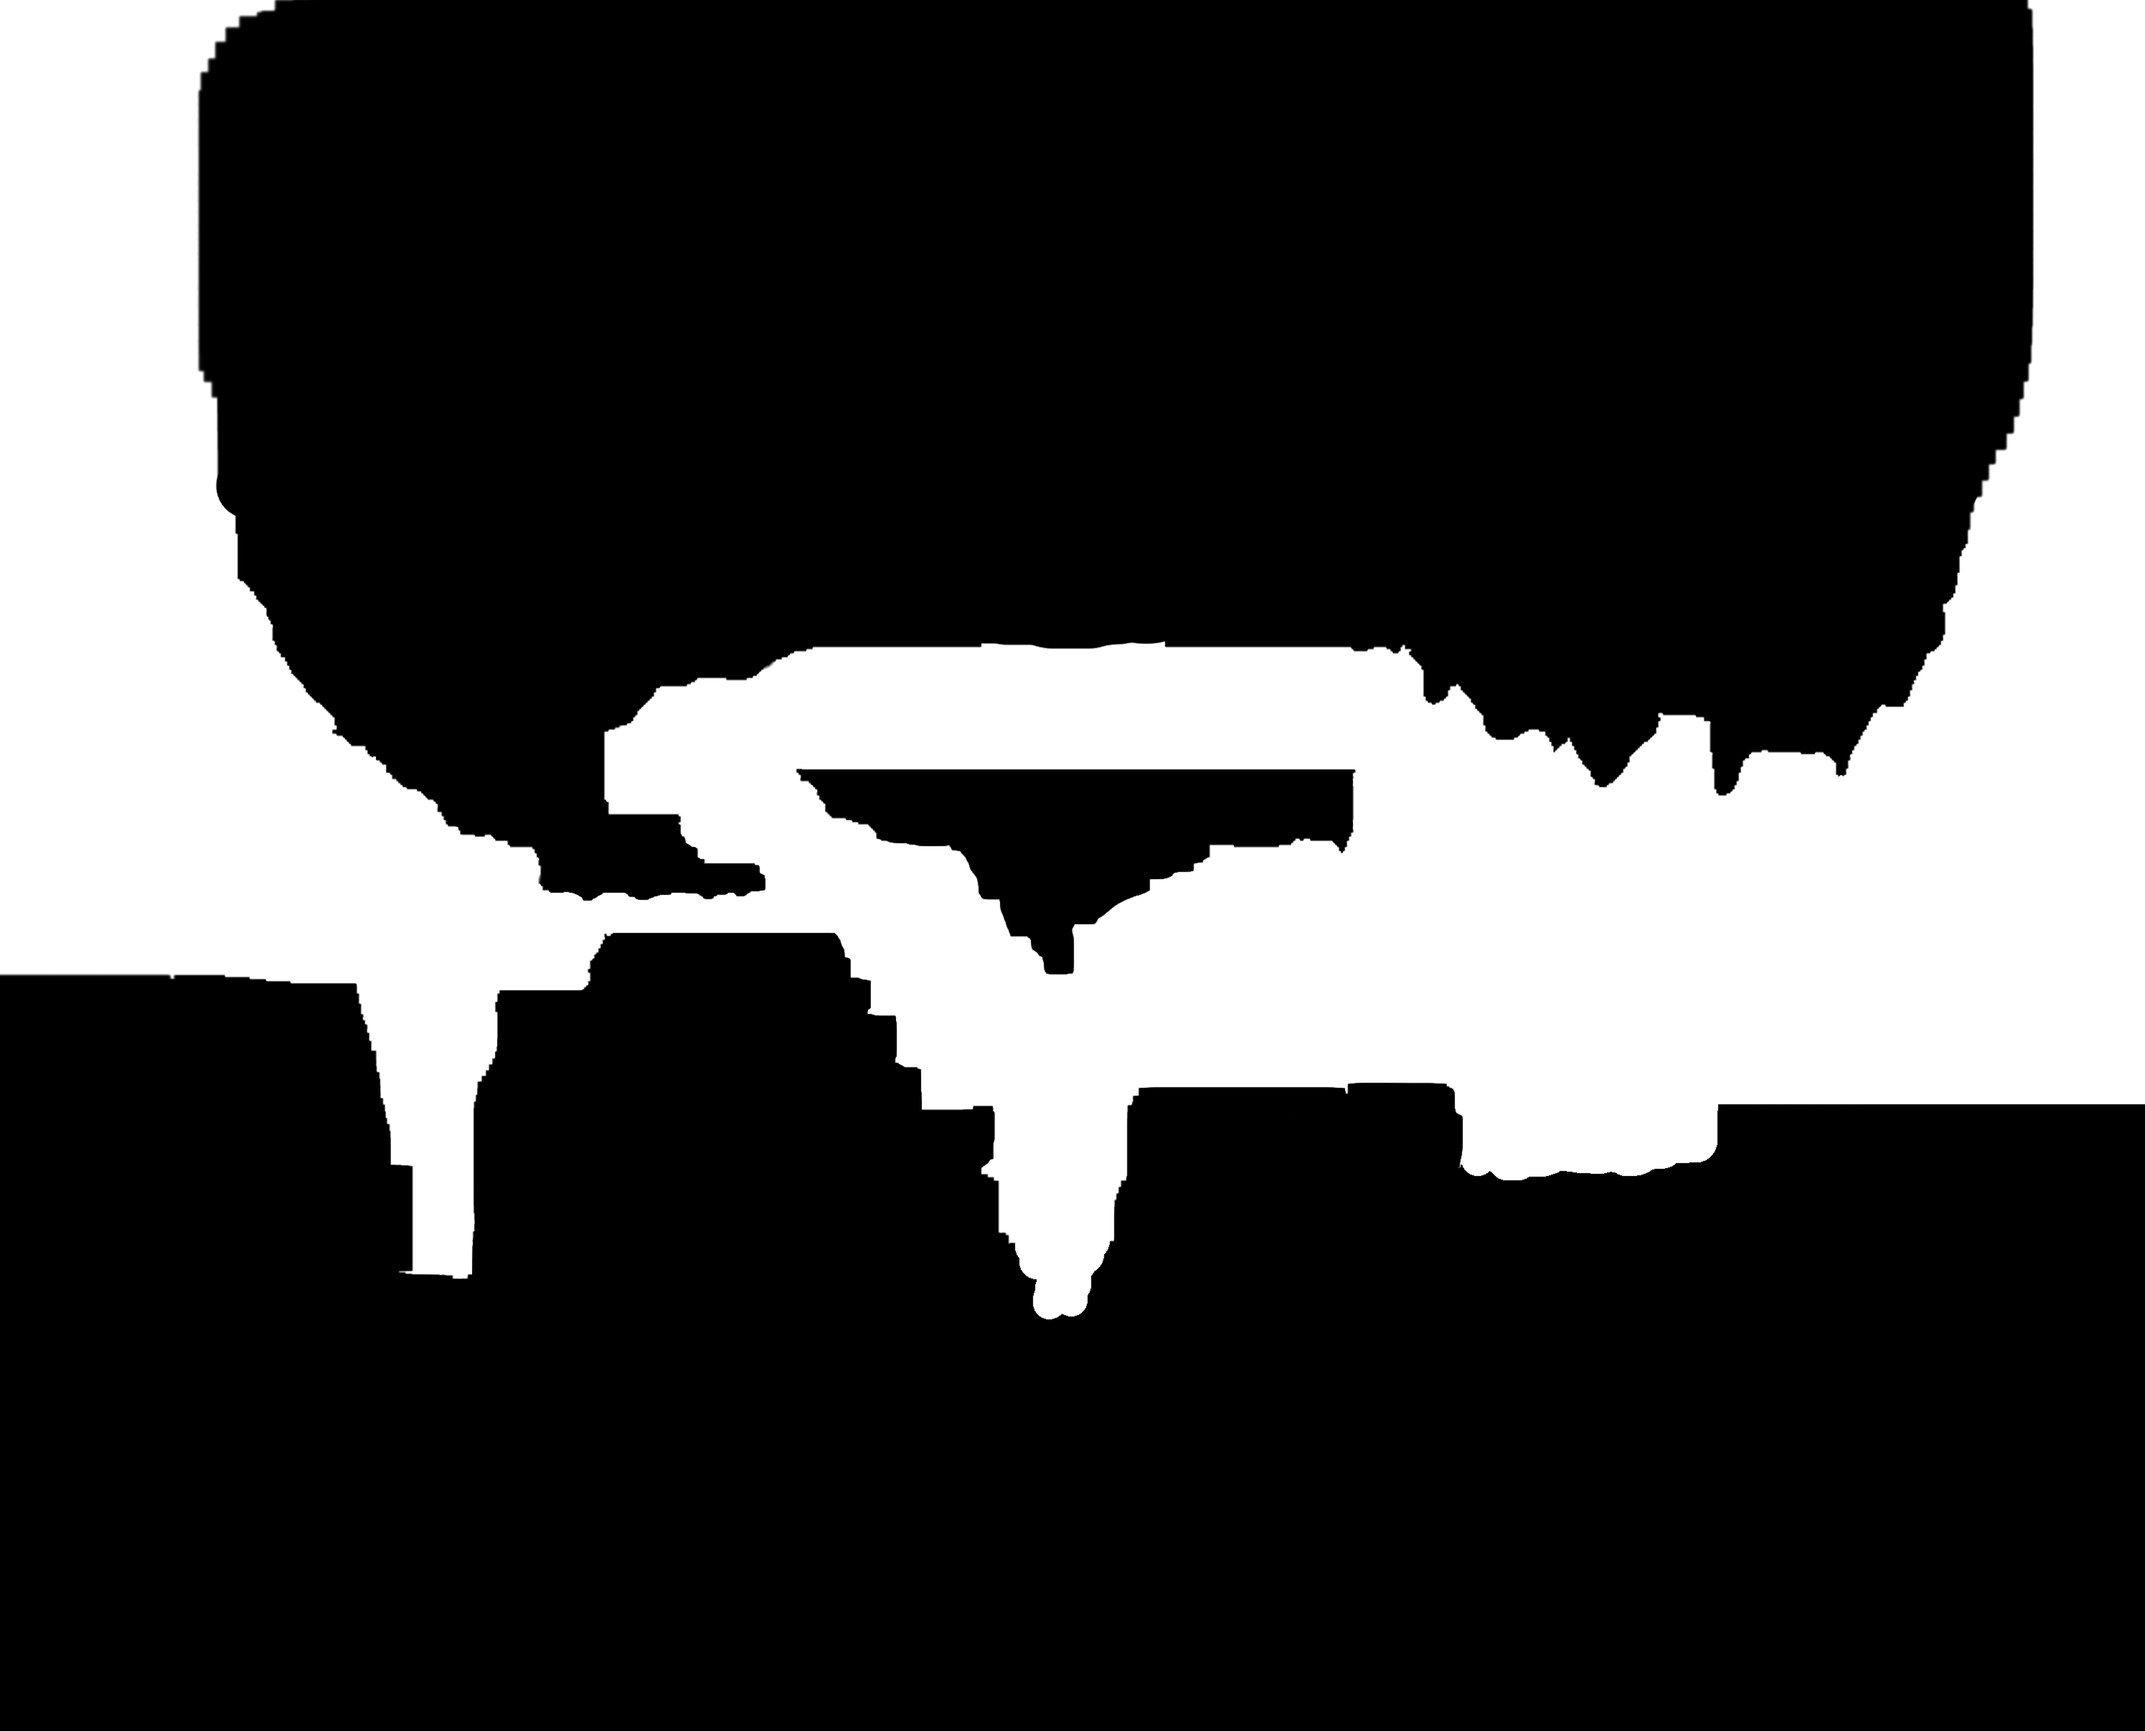
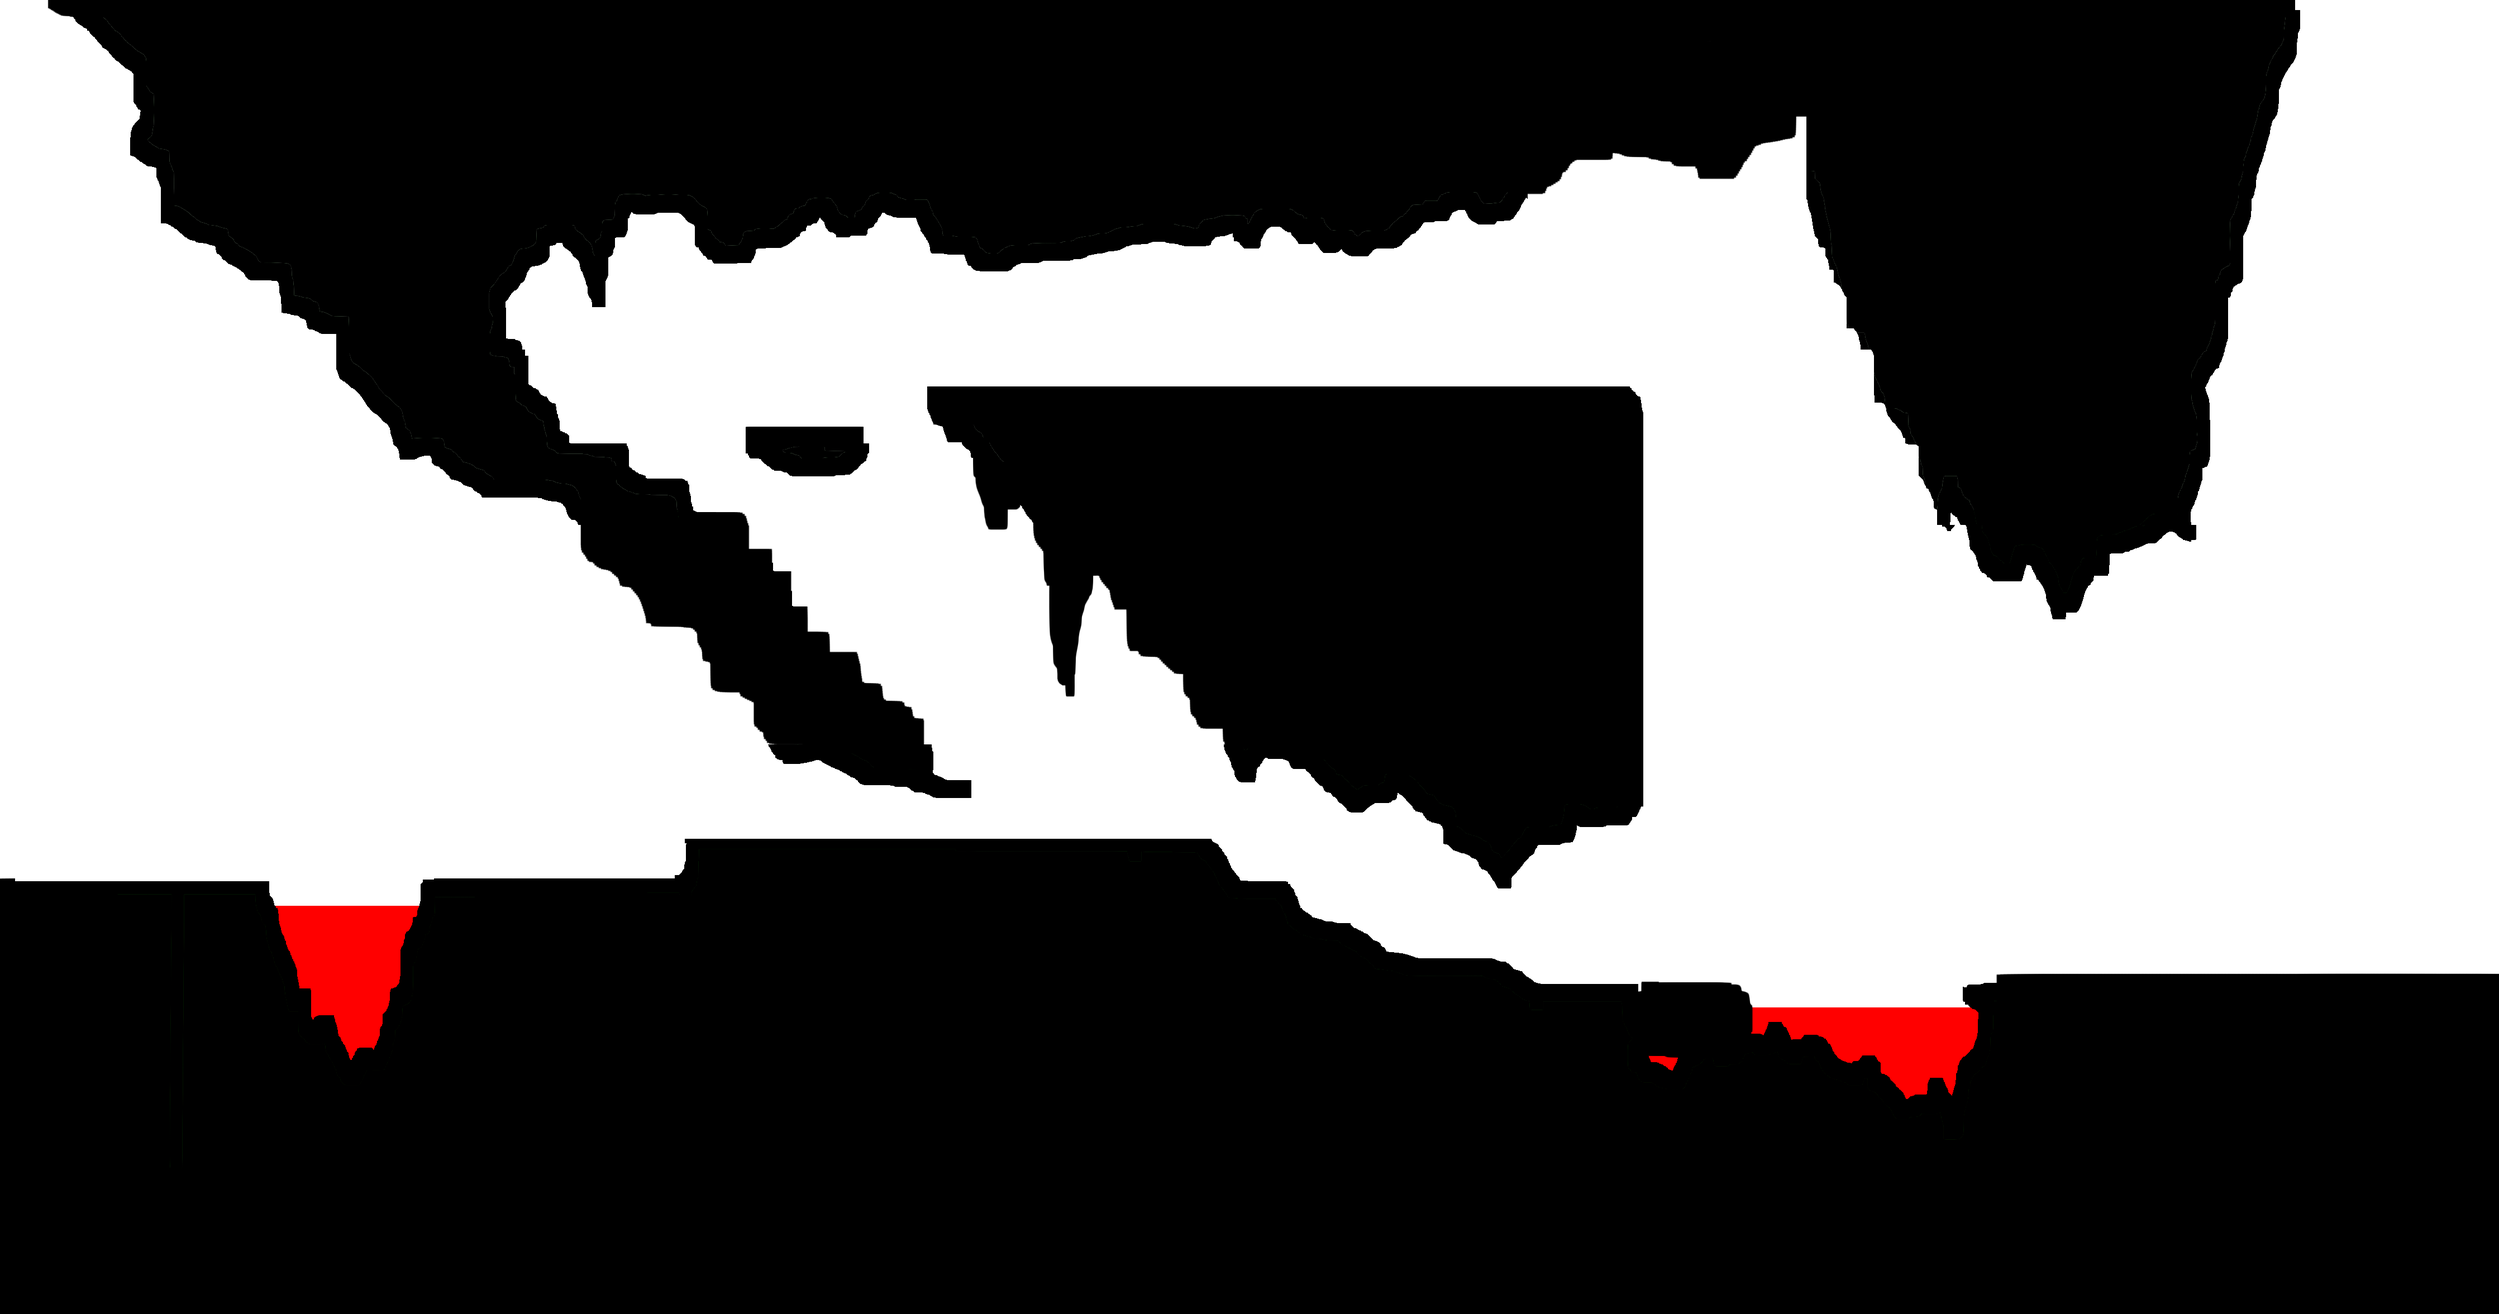
Chamgement collision Ajout collision plafond

Changed region(s): [[0.0, 0.0, 1.0, 0.8377], [0.875, 0.0, 0.9688, 0.4033]]

diff --git a/environment.cpp b/environment.cpp
@@ -10,7 +10,7 @@ Environment::Environment(){
 
 void Environment::init(){
     std::cout << "Environment Initialisation" << std::endl;
-    Hero* robot = new Hero("Robot",5,600,1450,10,10,1,0);
+    Hero* robot = new Hero("Robot",5,200,1450,10,10,1,0);
     entityMap.insert(robot->getID(),robot);
     entityTypeMap.insert(robot->get_nom(),robot->getID());
 
@@ -27,29 +27,45 @@ void Environment::reloadLevel(){
 
 }
 
+//bool Environment::collisionManager( QPair<double,double> speedVector){
+
+//}
+
 void Environment::run(){
 
 
-
     for(QMap<int,Entite*>::iterator it = entityMap.begin(); it != entityMap.end(); it++){
-        if(it.value()->get_trigger().intersection(IM.GetImage("graphics/hitmap2.png"),sf::Color::Black)){
-            if(it.value()->get_trigger().intersectAngle(IM.GetImage("graphics/hitmap2.png"), sf::Color::Black) <= PI + PI / 4.
-                    && it.value()->get_trigger().intersectAngle(IM.GetImage("graphics/hitmap2.png"), sf::Color::Black) >= PI - PI / 4.){
-                it.value()->moveRight();
-                it.value()->setCollLeft(true);
+        TzEllipse tmpTrigger = it.value()->get_trigger();
+        tmpTrigger.set_centre(it.value()->get_trigger().get_centreX() + it.value()->getSpeedVector().first
+                              , it.value()->get_trigger().get_centreY() + it.value()->getSpeedVector().second );
+        if(tmpTrigger.intersection(IM.GetImage("graphics/hitmap2.png"),sf::Color::Black)){
+            //collision avec un mur a gauche
+            if(tmpTrigger.intersectAngle(IM.GetImage("graphics/hitmap2.png"), sf::Color::Black) <= PI + PI / 4.
+                    && tmpTrigger.intersectAngle(IM.GetImage("graphics/hitmap2.png"), sf::Color::Black) >= PI - PI / 4.){
+                it.value()->setSpeedX(0);
+//                it.value()->moveRight();
             }
-            else
-                it.value()->setCollLeft(false);
-            if(it.value()->get_trigger().intersectAngle(IM.GetImage("graphics/hitmap2.png"), sf::Color::Black) <=  PI / 4.
-                    && it.value()->get_trigger().intersectAngle(IM.GetImage("graphics/hitmap2.png"), sf::Color::Black) >= - PI / 4.){
-                it.value()->moveLeft();
-                it.value()->setCollRight(true);
+
+
+            //collision avec un mur a droite
+            if(tmpTrigger.intersectAngle(IM.GetImage("graphics/hitmap2.png"), sf::Color::Black) <=  PI / 4.
+                    && tmpTrigger.intersectAngle(IM.GetImage("graphics/hitmap2.png"), sf::Color::Black) >= - PI / 4.){
+//                it.value()->moveLeft();
+                it.value()->setSpeedX(0);
             }
-            else
-                it.value()->setCollRight(false);
+
+
+//            collision avec le plafond
+            if(tmpTrigger.intersectAngle(IM.GetImage("graphics/hitmap2.png"), sf::Color::Black) <=  -PI/2 + PI / 4.
+                    && tmpTrigger.intersectAngle(IM.GetImage("graphics/hitmap2.png"), sf::Color::Black) >= -PI/2 - PI / 4.){
+                it.value()->setSpeedY(0);
+            }
+
         }
-        applyGravity(it);
+        applyGravity(it,tmpTrigger);
     }
+
+
 
     getHero()->move();
 
@@ -58,11 +74,11 @@ void Environment::run(){
     emit sendHeroPos(getHero()->get_x(),getHero()->get_y());
 }
 
-void Environment::applyGravity(QMap<int,Entite*>::iterator it){
+void Environment::applyGravity(QMap<int,Entite*>::iterator it,TzEllipse tmpTrigger){
     it.value()->setOnTheFloor(false);
-    if(it.value()->get_trigger().intersection(IM.GetImage("graphics/hitmap2.png"),sf::Color::Black)){
-        if(it.value()->get_trigger().intersectAngle(IM.GetImage("graphics/hitmap2.png"), sf::Color::Black) <= PI / 2. + PI / 4.
-                && it.value()->get_trigger().intersectAngle(IM.GetImage("graphics/hitmap2.png"), sf::Color::Black) >= PI / 2. - PI / 4.){
+    if(tmpTrigger.intersection(IM.GetImage("graphics/hitmap2.png"),sf::Color::Black)){
+        if(tmpTrigger.intersectAngle(IM.GetImage("graphics/hitmap2.png"), sf::Color::Black) <= PI / 2. + PI / 4.
+                && tmpTrigger.intersectAngle(IM.GetImage("graphics/hitmap2.png"), sf::Color::Black) >= PI / 2. - PI / 4.){
             it.value()->setSpeedY(0);
             it.value()->setSpeedY(it.value()->getSpeedVector().second - (double)it.value()->getHeight() * G / 200);
             it.value()->setOnTheFloor(true);
@@ -105,12 +121,26 @@ QString timeToString(envTime t){
 
 }
 
-void Environment::turnRight(){
-     getHero()->moveRight();
+void Environment::turnRight(bool b){
+//     getHero()->moveRight();
+    if(b)
+        getHero()->setSpeedX(getHero()->getSpeedVector().first + getHero()->get_vitesse());
+    else {
+        if(getHero()->getSpeedVector().first - getHero()->get_vitesse() > 0)
+            getHero()->setSpeedX(getHero()->getSpeedVector().first - getHero()->get_vitesse());
+        else getHero()->setSpeedX(0);
+    }
 }
 
-void Environment::turnLeft(){
-    getHero()->moveLeft();
+void Environment::turnLeft(bool b){
+//    getHero()->moveLeft();
+    if(b)
+        getHero()->setSpeedX(getHero()->getSpeedVector().first - getHero()->get_vitesse());
+    else  {
+        if(getHero()->getSpeedVector().first + getHero()->get_vitesse() < 0)
+            getHero()->setSpeedX(getHero()->getSpeedVector().first - getHero()->get_vitesse());
+        else getHero()->setSpeedX(0);
+    }
 }
 
 void Environment::jump(){

diff --git a/qsfcanvas.cpp b/qsfcanvas.cpp
@@ -18,10 +18,12 @@ void QSFcanvas::keyPressEvent(QKeyEvent * ke){
         upPressed = true;
     }
     if(ke->key() == Qt::Key_Q){
-        leftPressed = true;
+//        leftPressed = true;
+        emit turnLeft(true);
     }
     if(ke->key() == Qt::Key_D){
-        rightPressed = true;
+//        rightPressed = true;
+        emit turnRight(true);
     }
     if(ke->key() == Qt::Key_S){
         downPressed = true;
@@ -36,11 +38,13 @@ void QSFcanvas::keyReleaseEvent(QKeyEvent * e){
 
     }
     if(e->key() == Qt::Key_Q){
-        leftPressed = false;
+//        leftPressed = false;
+        emit turnLeft(false);
 
     }
     if(e->key() == Qt::Key_D){
-        rightPressed = false;
+//        rightPressed = false;
+        emit turnRight(false);
 
     }
     if(e->key() == Qt::Key_S){
@@ -116,10 +120,23 @@ void QSFcanvas::desableRight(){
 void QSFcanvas::updateView(int x, int y){
 
     if(x < carte.get_image("inf").getTextureRect().width - view.getSize().x/2
-            && y < carte.get_image("inf").getTextureRect().height - view.getSize().y/2
-            && x >= view.getSize().x/2
-            && y >= view.getSize().y/2)
-        view.setCenter(x,y);
+            && x > view.getSize().x/2)
+        view.setCenter(x,view.getCenter().y);
+    else if(x >= carte.get_image("inf").getTextureRect().width - view.getSize().x/2)
+        view.setCenter(carte.get_image("inf").getTextureRect().width - view.getSize().x/2
+                       ,view.getCenter().y);
+    else if(x <= view.getSize().x/2)
+        view.setCenter(view.getSize().x/2,view.getCenter().y);
+
+
+    if(y < carte.get_image("inf").getTextureRect().height - view.getSize().y/2
+                                && y >= view.getSize().y/2)
+        view.setCenter(view.getCenter().x,y);
+    else if(y >= carte.get_image("inf").getTextureRect().height - view.getSize().y/2)
+        view.setCenter(view.getCenter().x
+                       ,carte.get_image("inf").getTextureRect().height - view.getSize().y/2);
+    else if(y <= view.getSize().y/2)
+        view.setCenter(view.getSize().x,view.getCenter().y/2);
 }
 
 void QSFcanvas::blockPad(){
@@ -140,10 +157,10 @@ void QSFcanvas::OnUpdate()
 
     gamePadEvent();
 
-    if(rightPressed)
-        emit turnRight();
-    if(leftPressed)
-        emit turnLeft();
+//    if(rightPressed)
+//        emit turnRight();
+//    if(leftPressed)
+//        emit turnLeft();
     if(upPressed)
         emit jump();
 

diff --git a/ingame.cpp b/ingame.cpp
@@ -50,8 +50,8 @@ void InGame::init(){
     // On paramètre le timer de sorte qu'il génère un rafraîchissement à la fréquence souhaitée
     connect(&timer, SIGNAL(timeout()), SFMLView, SLOT(repaint()));
     connect(&timer,SIGNAL(timeout()),env,SLOT(run()));
-    connect(SFMLView, SIGNAL(turnLeft()), env, SLOT(turnLeft()));
-    connect(SFMLView, SIGNAL(turnRight()), env, SLOT(turnRight()));
+    connect(SFMLView, SIGNAL(turnLeft(bool)), env, SLOT(turnLeft(bool)));
+    connect(SFMLView, SIGNAL(turnRight(bool)), env, SLOT(turnRight(bool)));
     connect(SFMLView, SIGNAL(jump()), env, SLOT(jump()));
     timer.start();
 

diff --git a/environment.h b/environment.h
@@ -33,7 +33,7 @@ public:
     void keyPressEvent(QKeyEvent *);
 
     void init();
-    void applyGravity(QMap<int,Entite*>::iterator it);
+    void applyGravity(QMap<int,Entite*>::iterator it, TzEllipse tmpTrigger);
 
     void bonusPurge();
 
@@ -46,8 +46,8 @@ public slots:
     void reloadLevel();
 
     //HERO
-    void turnRight();
-    void turnLeft();
+    void turnRight(bool);
+    void turnLeft(bool);
     void jump();
     //-
 

diff --git a/entite.h b/entite.h
@@ -79,6 +79,7 @@ public:
     void setOnTheFloor(bool b);
     void setCollRight(bool b);
     void setCollLeft(bool b);
+    void setCollUp(bool);
     bool getOnTheFloor();
     void moveRight();
     void moveLeft();
@@ -112,6 +113,7 @@ protected:
     bool onTheFloor;
     bool collRight;
     bool collLeft;
+    bool collUp;
 
 };
 

diff --git a/tzellipse.cpp b/tzellipse.cpp
@@ -235,6 +235,11 @@ void TzEllipse::set_centre(float x, float y){
     centreY = y;
 }
 
+void TzEllipse::set_centre(double x, double y){
+    centreX = x;
+    centreY = y;
+}
+
 void TzEllipse::set_centre(int x,int y){
     centreX = x;
     centreY = y;

diff --git a/qsfcanvas.h b/qsfcanvas.h
@@ -36,8 +36,8 @@ public slots :
 
 signals:
     void setPause();
-    void turnLeft();
-    void turnRight();
+    void turnLeft(bool);
+    void turnRight(bool);
     void jump();
     void activBoost(bool);
     void activSlide(bool);

diff --git a/entite.cpp b/entite.cpp
@@ -241,6 +241,12 @@ void Entite::setCollLeft(bool b){
     collLeft = b;
 }
 
+
+void Entite::setCollUp(bool b){
+    collUp = b;
+}
+
+
 bool Entite::getOnTheFloor(){
     return onTheFloor;
 }

diff --git a/tzellipse.h b/tzellipse.h
@@ -55,6 +55,8 @@ public:
     //*Setters
     void set_centre(float,float);
     void set_centre (int ,int );
+    void set_centre (double ,double );
+
     void set_rayon(float);
     //*/
 };
